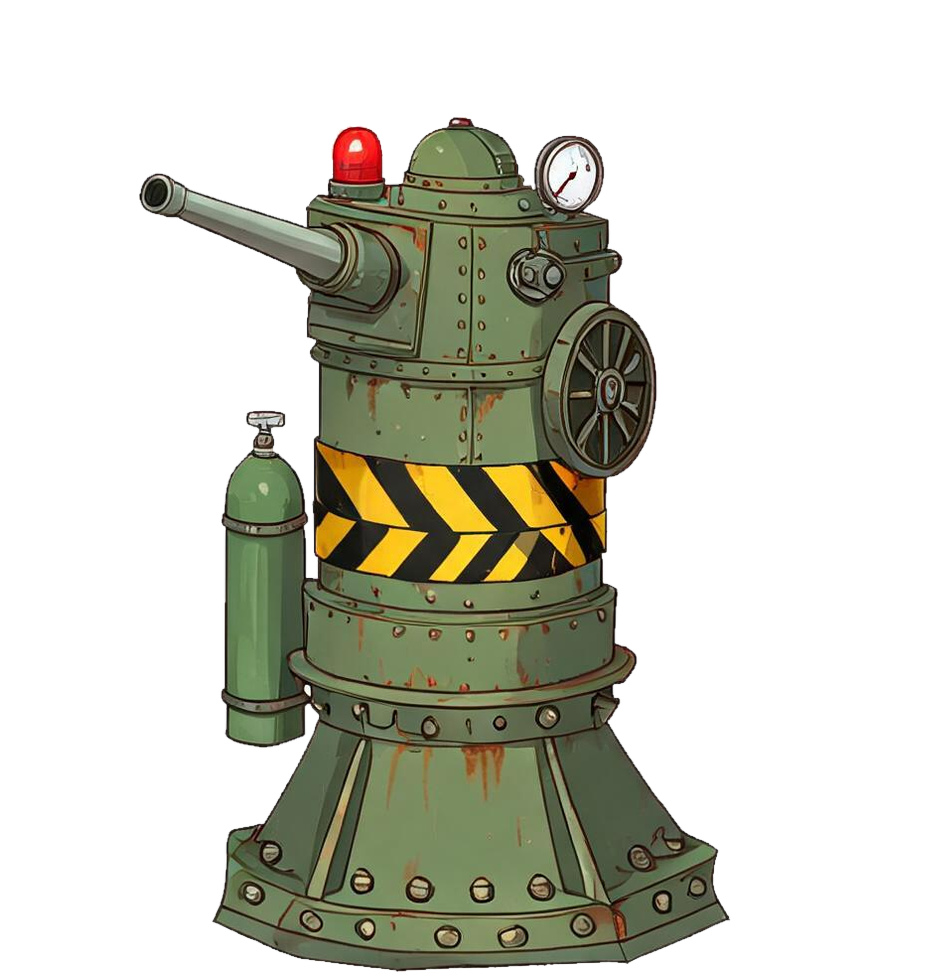
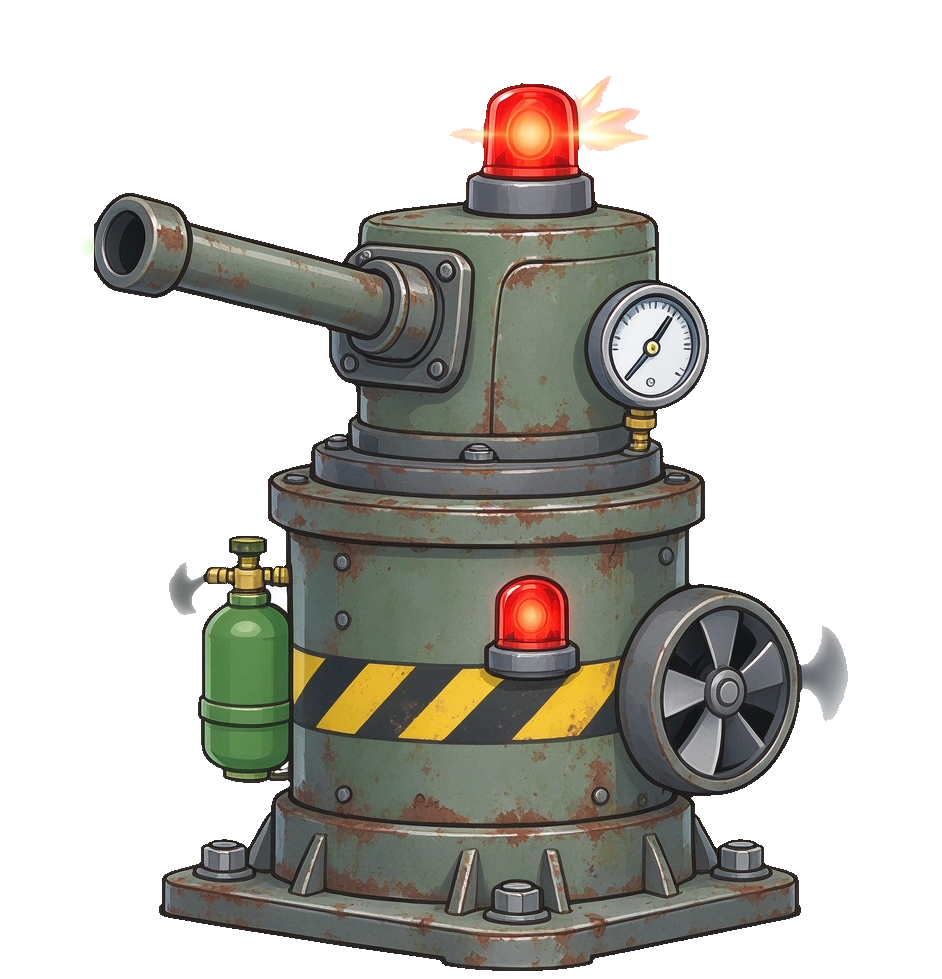
fix(美术): Tower01_Aim 改为由 Idle 派生，塔体与待机定妆逐像素一致
- 塔体直接取 Tower01_Idle 的 4 帧原图，只在炮口背景区叠加由弱到强的蓄能绿气光效
- 新增 Tools/art-pipeline/make_aim_from_idle.py 承担派生（Aim 不再走生成式管线）
- process_sheets.py 移除 Tower01_Aim 条目并加注，避免跑全量时覆盖派生结果
- README 同步 Aim 口径，并说明 Fire 仍为底座锚点对齐、画格宽 1039
- Tower01_Fire 未改动（上一轮已回退到 6564690 正确版本）

diff --git a/Tools/art-pipeline/make_aim_from_idle.py b/Tools/art-pipeline/make_aim_from_idle.py
@@ -1,0 +1,104 @@
+# -*- coding: utf-8 -*-
+"""Tower01_Aim 派生脚本（塔体零改动）
+
+为什么单独一个脚本：Aim 的塔体要求与 Tower01_Idle 的定妆**完全一样**，
+文生图做不到像素级一致，因此不再走 process_sheets.py 的生成式管线，改为直接以
+Idle 的 4 帧为底图，只在**透明背景区**叠加炮口「蓄能/锁定」绿气光效，逐帧增强。
+
+关键约束（脚本已保证）：
+  - 光效只写在 alpha==0 的背景像素上；塔体（alpha>0）的 RGB 与 alpha **逐点不变**；
+  - 输出文件名沿用 Tower01_Aim_00..03.png -> .meta/guid 不变 -> Aim.anim 引用不失效；
+  - 画面尺寸沿用 942x979，重拼 2x2 sheet 与 Idle/Disable 同规格，无需缩放。
+
+用法：python make_aim_from_idle.py
+"""
+import sys, os
+sys.stdout.reconfigure(encoding='utf-8')
+import numpy as np
+from PIL import Image
+
+TOWER = os.path.join(os.path.dirname(os.path.abspath(__file__)), '..', '..',
+                     'Assets', 'Art', 'Art', 'Towers', 'Tower01')
+IDLE_DIR = os.path.join(TOWER, 'Frames', 'Tower01_Idle')
+AIM_DIR = os.path.join(TOWER, 'Frames', 'Tower01_Aim')
+SHEETS = os.path.join(TOWER, 'Sheets')
+
+CELL = (942, 979)          # 与 Idle / Disable 同规格
+N = 4
+GLOW_RGB = np.array([124.0, 236.0, 72.0])       # 毒气绿
+GLOW_R = [16, 26, 38, 52]                        # 逐帧扩张半径（轴向再乘 K，确保不触格边）
+GLOW_A = [0.45, 0.62, 0.80, 0.96]                # 逐帧增强强度
+K = 1.6                                          # 轴向拉伸 -> 锥形喷气而非圆光斑
+ALPHA_MIN = 8
+
+
+def muzzle_point(alpha):
+    """炮口位置：最左侧一小段不透明像素的质心（炮管顶端）。"""
+    ys, xs = np.where(alpha > ALPHA_MIN)
+    x0 = xs.min()
+    sel = xs <= x0 + 10
+    return ys[sel].mean(), xs[sel].mean()
+
+
+def barrel_dir(fg, my, mx):
+    """炮管轴向：炮口指向外 = 炮口位置 - 炮口附近塔体（炮管）质心。"""
+    H, W = fg.shape
+    yy, xx = np.mgrid[0:H, 0:W]
+    near = fg & ((yy - my) ** 2 + (xx - mx) ** 2 <= 80 ** 2)
+    if near.sum() == 0:
+        return np.array([-1.0, 0.0])
+    cy, cx = yy[near].mean(), xx[near].mean()
+    v = np.array([mx - cx, my - cy])            # (dx, dy)，图像坐标 y 向下
+    n = np.hypot(v[0], v[1])
+    return v / n if n > 1e-6 else np.array([-1.0, 0.0])
+
+
+def make_frame(path, r, strength):
+    im = Image.open(path).convert('RGBA')
+    src = np.asarray(im).astype(np.float32)
+    alpha = src[..., 3]
+    fg = alpha > ALPHA_MIN
+    my, mx = muzzle_point(alpha)
+    ux, uy = barrel_dir(fg, my, mx)
+
+    H, W = alpha.shape
+    yy, xx = np.mgrid[0:H, 0:W]
+    dx, dy = xx - mx, yy - my
+    along = dx * ux + dy * uy                     # 沿炮管向外为正
+    perp = -dx * uy + dy * ux
+    d = np.sqrt((along / K) ** 2 + perp ** 2)
+    glow = (np.clip(1.0 - d / r, 0.0, 1.0) ** 1.5) * strength
+    glow[fg] = 0.0                                # 塔体像素一律不参与叠加
+
+    out_a = np.maximum(alpha, glow * 255.0)
+    w = (glow * 255.0) / np.maximum(out_a, 1.0)
+    out_rgb = src[..., :3] * (1.0 - w[..., None]) + GLOW_RGB * w[..., None]
+    out = np.dstack([out_rgb, out_a]).clip(0, 255).astype(np.uint8)
+    return Image.fromarray(out, 'RGBA'), (my, mx, ux, uy)
+
+
+def main():
+    frames = []
+    for i in range(N):
+        src = os.path.join(IDLE_DIR, f'Tower01_Idle_{i:02d}.png')
+        img, mz = make_frame(src, GLOW_R[i], GLOW_A[i])
+        os.makedirs(AIM_DIR, exist_ok=True)
+        dst = os.path.join(AIM_DIR, f'Tower01_Aim_{i:02d}.png')
+        img.save(dst)
+        frames.append(img)
+        print(f'  [OK] Aim_{i:02d} <- Idle_{i:02d}  炮口=({mz[1]:.0f},{mz[0]:.0f})  轴向=({mz[2]:+.2f},{mz[3]:+.2f})  r={GLOW_R[i]}  a={GLOW_A[i]}')
+
+    # 2x2 sheet（等大直贴，无需缩放）
+    cw, ch = CELL
+    sheet = Image.new('RGBA', (cw * 2, ch * 2), (0, 0, 0, 0))
+    for i, f in enumerate(frames):
+        sheet.paste(f, ((i % 2) * cw, (i // 2) * ch))
+    sp = os.path.join(SHEETS, 'Tower01_Aim_sheet.png')
+    sheet.save(sp)
+    # raw 留档：与 sheet 同格的源图（本套 raw 即成品网格本身）
+    sheet.save(os.path.join(SHEETS, 'raw', 'Tower01_Aim_raw.png'))
+    print(f'  [OK] sheet {sheet.size} -> {os.path.relpath(sp, TOWER)}')
+
+
+if __name__ == '__main__':
+    main()

diff --git a/Tools/art-pipeline/process_sheets.py b/Tools/art-pipeline/process_sheets.py
@@ -50,7 +50,9 @@ SPECS = [
     dict(name='Player_HeavyAttack',cols=6, rows=3, n=18, cell=(692,833), target=760),
     dict(name='Player_Die',        cols=7, rows=1, n=7,  cell=(692,833), target=760),
     dict(name='Enemy03_Spawn',     cols=2, rows=2, n=4,  cell=(993,1124), target=900),
-    dict(name='Tower01_Aim',       cols=2, rows=2, n=4,  cell=(942,979), target=890, anchor='base'),
+    # 注：Tower01_Aim 不在本表 —— 其塔体要求与 Tower01_Idle 定妆逐像素一致，
+    #     文生图无法保证，改由 make_aim_from_idle.py 从 Idle 4 帧派生（塔体零改动 + 炮口蓄能光效）。
+    #     若在此重新登记，跑全量管线会用 Sheets/raw/Tower01_Aim_raw.png 覆盖掉派生结果。
     dict(name='Tower01_Fire',      cols=3, rows=2, n=6,  cell=(942,979), target=890, anchor='base'),
     dict(name='Boss01_Special',    cols=5, rows=3, n=14, cell=(831,798), target=760),
     dict(name='Boss01_Enrage',     cols=3, rows=2, n=6,  cell=(831,798), target=760),

diff --git a/Assets/Art/README_素材说明.md b/Assets/Art/README_素材说明.md
@@ -96,7 +96,8 @@ ArtAssets\
 | Tower01_Fire | 6 | 3×2 | 12 | 否 | 帧3 HitOn（喷毒）/ 帧5 HitOff |
 | Tower01_Disable | 6 | 3×2 | 12 | 否 | 帧6 停机（被净化变灰） |
 
-> Tower01_Aim 与 Tower01_Fire 均开启**底座锚点对齐**（炮管/毒雾逐帧变向时按底座中心摆位，塔身不再左右滑动），画格宽按各帧「底座到内容两端」自适应：Fire 1039、Aim 942，Idle/Disable 942；高度 979、底留白 7px 不变。
+> Tower01_Fire 开启**底座锚点对齐**（毒雾逐帧变向时按底座中心摆位，塔身不再左右滑动），画格宽按各帧「底座到内容两端」自适应：Fire 1039；Idle/Aim/Disable 942；高度 979、底留白不变。
+> Tower01_Aim **不走生成式管线**：塔体直接取 Tower01_Idle 的 4 帧原图（与 Idle 定妆**逐像素一致**，仅背景区叠加炮口蓄能绿气光效，由弱到强），派生脚本见 `Tools/art-pipeline/make_aim_from_idle.py`。
 > 四套 Clip 同一座塔：短粗圆柱分节塔身 + 横贯塔身黄黑斜条纹警示带 + 左侧绿气瓶（铜阀）+ 右侧辐条风扇轮 + 喇叭形带螺栓底座 + 顶部红色警灯/压力表，炮管一律朝左上。
 
 ### Boss01 工厂污染核心（关卡3 最终 BOSS）Cell 831×798 / 77 帧　localScale ≈ 2.25（约4.5单位）
